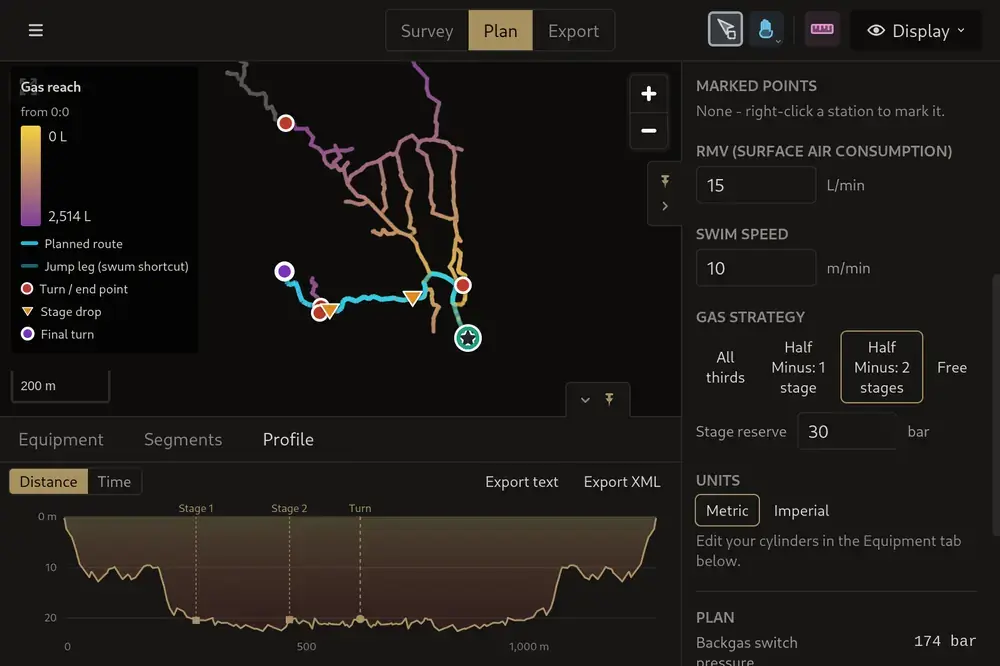
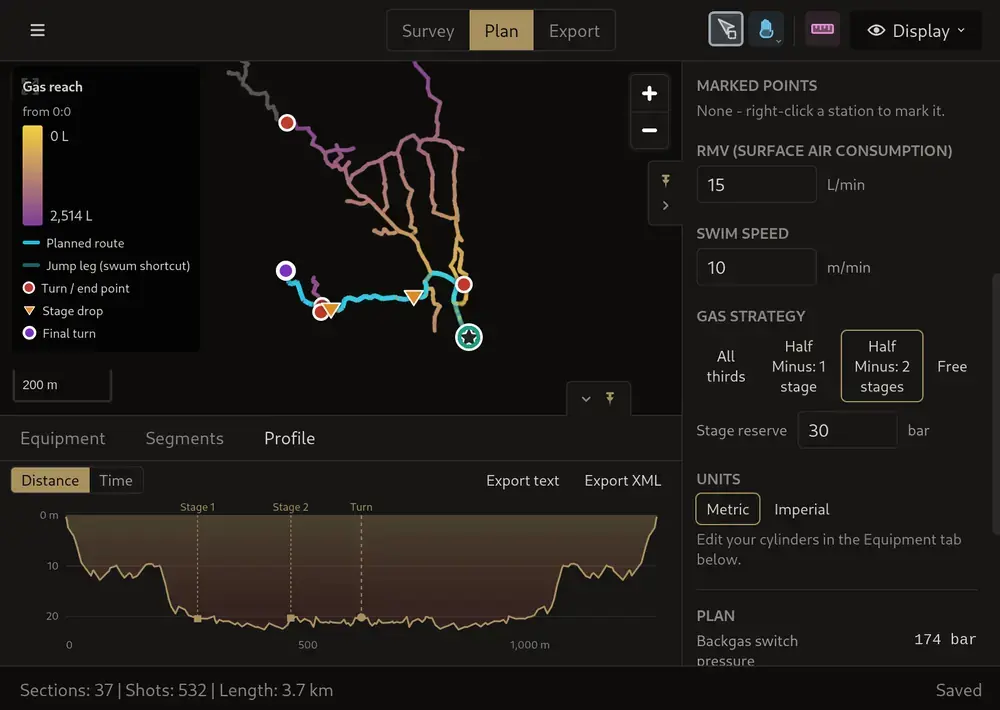
Stop cropping the bottom off the app window
The window detector kept lines that were ">40% non-desktop", which sounds
equivalent to "is this line inside the window" and is not: the bottom of this app
is a dimmed data table or a modal's backdrop, mostly dark and therefore mostly
*within* tolerance of a dark desktop. Those rows were discarded as desktop.

It cost 73px on import, dive_plan and export and 50px on speleodb — the
connection wizard's Cancel/Back/Skip/Confirm row was sliced in half. It went
unnoticed because the min-height consensus meant two clipped frames silently
shortened all the others.

Detection now walks in from each edge while the line is almost entirely the
desktop colour, which matched the true window bottom exactly on every frame of
every set. All four grew 52-73px and all still report "all frames aligned".

--inset is now per-edge and defaults to 3,3,0,3. It exists to clear rounded
corners and border antialiasing, a top-and-sides problem; 3px off a straight
bottom edge just clipped the status bar.

Intrinsic img dimensions updated to match the taller assets so nothing shifts on
load. station-merge is unchanged — it uses --window full, so it never went
through the faulty detector.

diff --git a/src/partials/features.html b/src/partials/features.html
@@ -28,7 +28,7 @@
       <div class="f-visual">
         <picture class="f-clip">
           <source media="(prefers-reduced-motion: reduce)" srcset="/media/data-entry-still.webp">
-          <img src="/media/data-entry.webp" width="1000" height="614" loading="lazy" decoding="async"
+          <img src="/media/data-entry.webp" width="1000" height="653" loading="lazy" decoding="async"
                alt="Importing a mNemo DMP file: reviewing the file's sections, then the connection wizard placing each section with a suggested join, and the finished survey.">
         </picture>
       </div>
@@ -42,7 +42,7 @@
       <div class="f-visual">
         <picture class="f-clip">
           <source media="(prefers-reduced-motion: reduce)" srcset="/media/speleodb-still.webp">
-          <img src="/media/speleodb.webp" width="1000" height="710" loading="lazy" decoding="async"
+          <img src="/media/speleodb.webp" width="1000" height="747" loading="lazy" decoding="async"
                alt="Publishing a project to SpeleoDB, taking the write lock to edit, uploading the changes, and browsing the revision history with revert options.">
         </picture>
       </div>
@@ -70,7 +70,7 @@
       <div class="f-visual">
         <picture class="f-clip">
           <source media="(prefers-reduced-motion: reduce)" srcset="/media/dive-plan-still.webp">
-          <img src="/media/dive-plan.webp" width="1000" height="666" loading="lazy" decoding="async"
+          <img src="/media/dive-plan.webp" width="1000" height="710" loading="lazy" decoding="async"
                alt="Plan mode: stations shaded by the gas needed to reach them, a route set from start point to endpoint, stage drops assigned, and the resulting depth profile with turn point.">
         </picture>
       </div>
@@ -84,7 +84,7 @@
       <div class="f-visual">
         <picture class="f-clip">
           <source media="(prefers-reduced-motion: reduce)" srcset="/media/export-still.webp">
-          <img src="/media/export.webp" width="1000" height="664" loading="lazy" decoding="async"
+          <img src="/media/export.webp" width="1000" height="711" loading="lazy" decoding="async"
                alt="Exporting a survey: a print-ready SVG map image with adjustable line weight, then the same survey written out as an Ariane TML file.">
         </picture>
       </div>

diff --git a/assets/build-anim.py b/assets/build-anim.py
@@ -35,13 +35,20 @@ from PIL import Image
 
 
 # ── 1. locate the application window ────────────────────────────────────────
-def window_bbox(rgb: np.ndarray, tol: int = 26) -> tuple[int, int, int, int]:
+def window_bbox(rgb: np.ndarray, tol: int = 20, frac: float = 0.97) -> tuple[int, int, int, int]:
     """Bounding box of the app window inside a capture that includes desktop.
 
-    The desktop colour is sampled from the extreme corners (the window never
-    reaches them). Anything far enough from that colour is treated as window.
-    Rows/columns must be >40% window pixels to count, which keeps a stray
-    desktop icon or a rounded corner from widening the box.
+    Walks in from each edge for as long as the row or column is almost entirely
+    the desktop colour, sampled from the extreme corners. The window starts at
+    the first line that is not.
+
+    This replaced a "keep lines that are >40% non-desktop" rule, which looked
+    equivalent and was not: the bottom of this app is a dimmed data table or a
+    modal's backdrop, mostly dark and therefore mostly *within* tolerance of a
+    dark desktop. Those rows were discarded as desktop, so the detected window
+    ended ~73px above its real bottom and the dialog's confirm buttons were
+    sliced in half. Requiring a line to be essentially *all* desktop before
+    treating it as outside the window keeps sparse content.
     """
     h, w, _ = rgb.shape
     corners = np.concatenate([
@@ -49,13 +56,21 @@ def window_bbox(rgb: np.ndarray, tol: int = 26) -> tuple[int, int, int, int]:
         rgb[-8:, :8].reshape(-1, 3), rgb[-8:, -8:].reshape(-1, 3),
     ])
     desktop = np.median(corners, axis=0)
-    mask = np.abs(rgb.astype(int) - desktop).sum(axis=2) > tol
+    near = np.abs(rgb.astype(int) - desktop).sum(axis=2) <= tol
 
-    rows = np.where(mask.mean(axis=1) > 0.40)[0]
-    cols = np.where(mask.mean(axis=0) > 0.40)[0]
-    if rows.size == 0 or cols.size == 0:          # capture is all window
-        return 0, 0, w, h
-    return int(cols[0]), int(rows[0]), int(cols[-1]) + 1, int(rows[-1]) + 1
+    top = 0
+    while top < h - 1 and near[top].mean() > frac:
+        top += 1
+    bot = h
+    while bot > top + 1 and near[bot - 1].mean() > frac:
+        bot -= 1
+    lef = 0
+    while lef < w - 1 and near[:, lef].mean() > frac:
+        lef += 1
+    rig = w
+    while rig > lef + 1 and near[:, rig - 1].mean() > frac:
+        rig -= 1
+    return lef, top, rig, bot
 
 
 # ── 2. registration ─────────────────────────────────────────────────────────
@@ -111,7 +126,8 @@ def main() -> int:
     ap.add_argument("--holds", required=True, help="tenths of a second per frame, comma separated")
     ap.add_argument("--width", type=int, default=1000)
     ap.add_argument("--quality", type=int, default=76)
-    ap.add_argument("--inset", type=int, default=3, help="px trimmed inside the window edge")
+    ap.add_argument("--inset", default="3,3,0,3",
+                    help="px trimmed inside the window edge: one value, or T,R,B,L")
     ap.add_argument("--band", type=int, default=56, help="px of edge band used for correlation")
     ap.add_argument("--maxshift", type=int, default=14, help="largest plausible jitter, in px")
     ap.add_argument("--passes", type=int, default=5, help="registration refinement iterations")
@@ -194,10 +210,21 @@ def main() -> int:
 
     # trim to what every frame still covers after shifting, plus the inset that
     # removes the window's own rounded corners and border antialiasing
-    top = max(0, max(dy for dy, _ in shifts)) + a.inset
-    bot = ch + min(0, min(dy for dy, _ in shifts)) - a.inset
-    lef = max(0, max(dx for _, dx in shifts)) + a.inset
-    rig = cw + min(0, min(dx for _, dx in shifts)) - a.inset
+    # --inset is per-edge (T,R,B,L, or one value for all). It exists to clear the
+    # window's rounded corners and border antialiasing, which is a top/side
+    # problem — the bottom edge is straight, and taking 3px off it clipped the
+    # status bar. Default keeps the bottom intact.
+    ins = [int(v) for v in str(a.inset).split(",")]
+    if len(ins) == 1:
+        ins *= 4
+    if len(ins) != 4:
+        sys.exit("--inset wants one value or T,R,B,L")
+    i_t, i_r, i_b, i_l = ins
+
+    top = max(0, max(dy for dy, _ in shifts)) + i_t
+    bot = ch + min(0, min(dy for dy, _ in shifts)) - i_b
+    lef = max(0, max(dx for _, dx in shifts)) + i_l
+    rig = cw + min(0, min(dx for _, dx in shifts)) - i_r
 
     # Optional tighter crop, WxH+X+Y relative to the registered region. Needed
     # for full-screen captures: the whole app at 640px on the page is unreadable,
@@ -219,7 +246,7 @@ def main() -> int:
         print(f"common crop     : {cw}x{ch}")
         for f, b, s in zip(files, boxes, shifts):
             print(f"  {f.name}  win={b[2]-b[0]}x{b[3]-b[1]}+{b[0]}+{b[1]}  shift dy={s[0]:+d} dx={s[1]:+d}")
-        print(f"final crop      : {rig - lef}x{bot - top}  (inset {a.inset})")
+        print(f"final crop      : {rig - lef}x{bot - top}  (inset T{i_t} R{i_r} B{i_b} L{i_l})")
 
     tmp = pathlib.Path(tempfile.mkdtemp(prefix="anim-"))
     try:

diff --git a/docs/screenshot-animations.md b/docs/screenshot-animations.md
@@ -59,12 +59,27 @@ All paths relative to `assets/screenshots/`. Every one of these reports
 
 | Folder | Feature row | Output | Extra flags |
 |---|---|---|---|
-| `import/` | mNemo & Manual Data Entry | `data-entry.webp` (123 KB, 9.4 s) | `--holds 13,10,13,9,11,10,10,18` |
-| `speleodb_features/` | SpeleoDB Support | `speleodb.webp` (206 KB, 19.2 s) | `--holds 9,7,9,39,9,5,6,39,9,60` |
+| `import/` | mNemo & Manual Data Entry | `data-entry.webp` (131 KB, 9.4 s) | `--holds 13,10,13,9,11,10,10,18` |
+| `speleodb_features/` | SpeleoDB Support | `speleodb.webp` (213 KB, 19.2 s) | `--holds 9,7,9,39,9,5,6,39,9,60` |
 | `station_merge/` | Visual-First Editing | `station-merge.webp` (41 KB, 8.0 s) | `--holds 12,7,6,5,4,4,4,5,15,18 --quality 75 --window full --crop 1923x1250+588+140` |
-| `dive_plan/` | Dive Planning | `dive-plan.webp` (98 KB, 7.8 s) | `--holds 14,10,12,10,12,20` |
-| `export/` | Import & Export Existing Data | `export.webp` (59 KB, 6.0 s) | `--holds 12,16,15,17 --band 90 --passes 8` |
+| `dive_plan/` | Dive Planning | `dive-plan.webp` (99 KB, 7.8 s) | `--holds 14,10,12,10,12,20` |
+| `export/` | Import & Export Existing Data | `export.webp` (61 KB, 6.0 s) | `--holds 12,16,15,17 --band 90 --passes 8` |
 | `main.png` | hero | `app-main-{1600,2200}.webp` | see below |
+
+### Why the bottom edge is treated differently
+
+The window detector walks in from each edge while the line is *almost entirely*
+the desktop colour. An earlier version kept lines that were ">40% non-desktop",
+which sounds equivalent and is not: the bottom of this app is a dimmed data table
+or a modal's backdrop — mostly dark, therefore mostly within tolerance of a dark
+desktop. Those rows were discarded as desktop, so the detected window ended about
+73px above its real bottom on four of the five sets, and the connection wizard's
+Confirm button was sliced in half.
+
+For the same reason `--inset` defaults to `3,3,0,3` rather than `3`. The inset
+exists to clear the window's rounded corners and border antialiasing, which is a
+top-and-sides problem; taking 3px off a straight bottom edge clipped the status
+bar for no benefit.
 
 Two need non-default flags, both for reasons the report tells you about:
 
